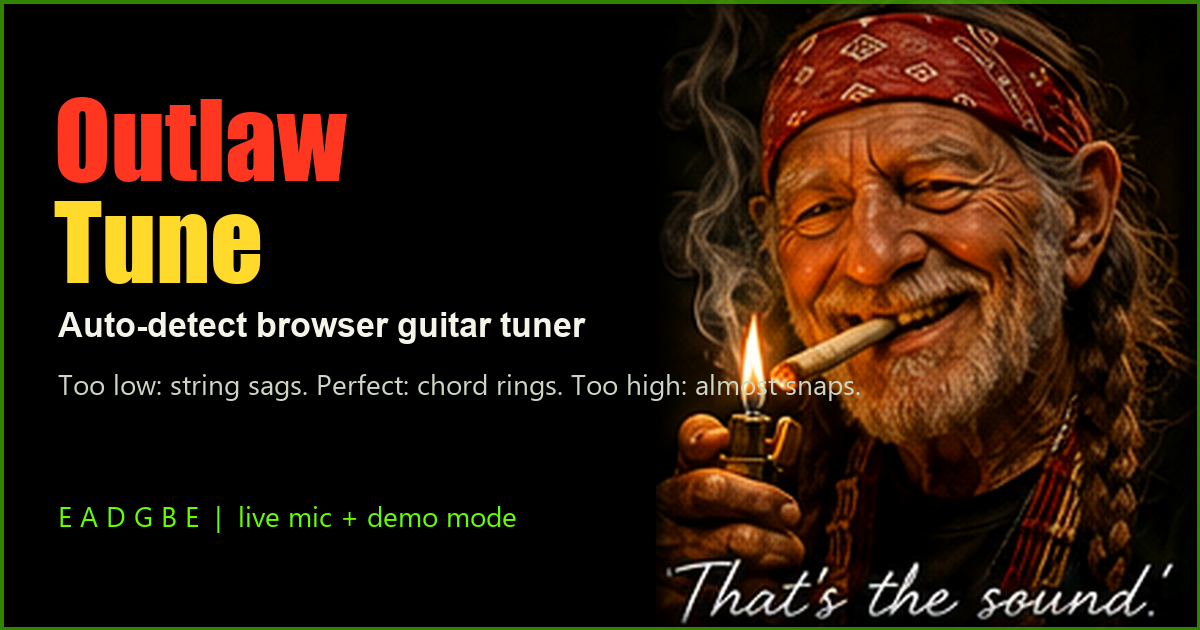
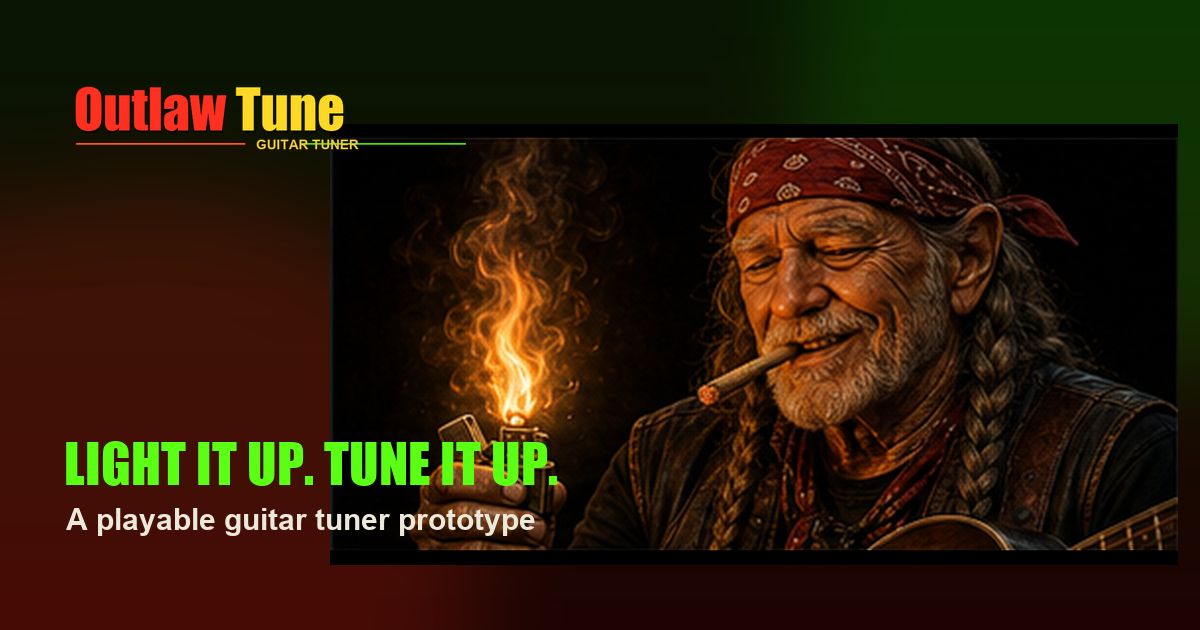
Add generated outlaw animation frames

diff --git a/script.js b/script.js
@@ -9,8 +9,30 @@ const guitarStrings = [
 
 const stringsByKey = Object.fromEntries(guitarStrings.map((string) => [string.key, string]));
 
-const canonicalCharacterFrame = "assets/outlaw-frame-08.png";
-const visualStageCount = 18;
+const generatedCharacterFrames = Array.from(
+  { length: 16 },
+  (_, index) => `assets/generated-outlaw-v2/outlaw-gen-v2-${String(index + 1).padStart(2, "0")}.png`,
+);
+const canonicalCharacterFrame = generatedCharacterFrames[7];
+const visualStageCount = generatedCharacterFrames.length;
+const generatedFrameStops = [
+  { cents: -50, frame: 0 },
+  { cents: -40, frame: 1 },
+  { cents: -30, frame: 2 },
+  { cents: -20, frame: 3 },
+  { cents: -10, frame: 4 },
+  { cents: -5, frame: 5 },
+  { cents: -2, frame: 6 },
+  { cents: 0, frame: 7 },
+  { cents: 2, frame: 8 },
+  { cents: 8, frame: 9 },
+  { cents: 15, frame: 10 },
+  { cents: 25, frame: 11 },
+  { cents: 35, frame: 12 },
+  { cents: 50, frame: 13 },
+  { cents: 65, frame: 14 },
+  { cents: 80, frame: 15 },
+];
 
 const stateCopy = {
   "way-low": { title: "Way Low", direction: "Tune Up" },
@@ -48,7 +70,8 @@ const stringButtons = [...document.querySelectorAll(".string-button")];
 const visual = {
   front: characterFrameA,
   back: characterFrameB,
-  currentFrame: canonicalCharacterFrame,
+  frontFrame: canonicalCharacterFrame,
+  backFrame: canonicalCharacterFrame,
   currentMood: "perfect",
   veilTimer: null,
 };
@@ -91,6 +114,10 @@ const attractKeyframes = [
 
 const canonicalPreload = new Image();
 canonicalPreload.src = canonicalCharacterFrame;
+generatedCharacterFrames.forEach((frame) => {
+  const image = new Image();
+  image.src = frame;
+});
 
 function installImageGuards() {
   document.querySelectorAll("img").forEach((img) => {
@@ -209,6 +236,32 @@ function visualStageForCents(cents) {
   return Math.round(visualPositionForCents(cents));
 }
 
+function generatedFrameMixForCents(cents) {
+  const first = generatedFrameStops[0];
+  const last = generatedFrameStops[generatedFrameStops.length - 1];
+
+  if (cents <= first.cents) {
+    return { from: first.frame, to: first.frame, blend: 0 };
+  }
+
+  if (cents >= last.cents) {
+    return { from: last.frame, to: last.frame, blend: 0 };
+  }
+
+  for (let index = 0; index < generatedFrameStops.length - 1; index += 1) {
+    const lower = generatedFrameStops[index];
+    const upper = generatedFrameStops[index + 1];
+
+    if (cents >= lower.cents && cents <= upper.cents) {
+      const span = upper.cents - lower.cents || 1;
+      const blend = easeInOut((cents - lower.cents) / span);
+      return { from: lower.frame, to: upper.frame, blend };
+    }
+  }
+
+  return { from: 7, to: 7, blend: 0 };
+}
+
 function spriteFrameForCents(cents) {
   if (cents < -42) return 0;
   if (cents < -30) return 1;
@@ -297,10 +350,18 @@ function applyVisual(cents) {
   const resonance = clamp(1 - Math.abs(cents) / 22, 0, 1);
   const virtualStage = visualStageForCents(cents);
   const spriteFrame = spriteFrameForCents(cents);
+  const frameMix = generatedFrameMixForCents(cents);
+  const frontFrame = generatedCharacterFrames[frameMix.from];
+  const backFrame = generatedCharacterFrames[frameMix.to];
 
-  if (visual.currentFrame !== canonicalCharacterFrame) {
-    visual.currentFrame = canonicalCharacterFrame;
-    visual.front.src = canonicalCharacterFrame;
+  if (visual.frontFrame !== frontFrame) {
+    visual.frontFrame = frontFrame;
+    visual.front.src = frontFrame;
+  }
+
+  if (visual.backFrame !== backFrame) {
+    visual.backFrame = backFrame;
+    visual.back.src = backFrame;
   }
 
   if (visual.currentMood !== mood) {
@@ -308,13 +369,14 @@ function applyVisual(cents) {
     triggerFrameVeil();
   }
 
-  visual.back.src = canonicalCharacterFrame;
-  visual.front.style.opacity = "1";
-  visual.back.style.opacity = "0";
+  visual.front.style.opacity = (1 - frameMix.blend).toFixed(3);
+  visual.back.style.opacity = frameMix.blend.toFixed(3);
 
   app.dataset.visualStage = String(virtualStage);
+  app.dataset.generatedFrame = `${frameMix.from + 1}-${frameMix.to + 1}`;
   app.dataset.visualMood = mood;
   app.style.setProperty("--frame-progress", (position / (visualStageCount - 1)).toFixed(3));
+  app.style.setProperty("--frame-blend", frameMix.blend.toFixed(3));
   app.style.setProperty("--spark-level", spark.toFixed(3));
   app.style.setProperty("--flame-level", flame.toFixed(3));
   app.style.setProperty("--flare-level", flare.toFixed(3));

diff --git a/index.html b/index.html
@@ -20,8 +20,8 @@
     <meta name="twitter:card" content="summary_large_image">
     <meta name="twitter:title" content="Outlaw Tune Guitar Tuner">
     <meta name="twitter:description" content="A playable mobile guitar tuner prototype with live mic detection, six strings, and outlaw-stage tuning feedback.">
-    <meta name="twitter:image" content="https://outlaw-tune-preview.netlify.app/assets/social-preview.png?v=outlaw-20260606">
-    <link rel="stylesheet" href="style.css?v=outlaw-stable-smooth-20260619b">
+    <meta name="twitter:image" content="https://outlaw-tune-preview.netlify.app/assets/social-preview.png?v=outlaw-generated-v2-20260619">
+    <link rel="stylesheet" href="style.css?v=outlaw-generated-v2-20260619">
   </head>
   <body>
     <main class="app-shell" data-state="perfect">
@@ -36,8 +36,8 @@
       <section class="hero-panel">
         <div class="character-stage" id="characterStage" role="img" aria-label="Fictional outlaw-country tuner character">
           <div class="character-rig" aria-hidden="true">
-            <img id="characterFrameA" class="character-frame frame-a is-visible" src="assets/outlaw-frame-08.png" alt="">
-            <img id="characterFrameB" class="character-frame frame-b" src="assets/outlaw-frame-08.png" alt="">
+            <img id="characterFrameA" class="character-frame frame-a is-visible" src="assets/generated-outlaw-v2/outlaw-gen-v2-08.png" alt="">
+            <img id="characterFrameB" class="character-frame frame-b" src="assets/generated-outlaw-v2/outlaw-gen-v2-08.png" alt="">
             <div class="flame-system">
               <span class="sprite-glow"></span>
               <span class="flame-sprite"></span>
@@ -164,6 +164,6 @@
       <p class="status-text" id="statusText">Requesting microphone access for live tuning.</p>
     </main>
 
-    <script src="script.js?v=outlaw-stable-smooth-20260619b"></script>
+    <script src="script.js?v=outlaw-generated-v2-20260619"></script>
   </body>
 </html>

diff --git a/style.css b/style.css
@@ -239,6 +239,10 @@ button {
   opacity: 0;
 }
 
+.flame-system {
+  display: none;
+}
+
 .app-shell[data-state="way-high"] .character-stage {
   animation: warningShake 520ms ease-in-out;
 }
@@ -261,7 +265,7 @@ button {
 
 .flame-system {
   position: absolute;
-  display: block;
+  display: none;
   left: 31.2%;
   bottom: 21.8%;
   z-index: 5;

diff --git a/README.md b/README.md
@@ -1,6 +1,6 @@
 # Outlaw Tune
 
-Outlaw Tune is a static, mobile-first guitar tuner prototype. It uses browser microphone input, Web Audio pitch detection, six-string auto-detection, and an outlaw-country character progression that reacts as the note moves from flat to perfect to sharp.
+Outlaw Tune is a static, mobile-first guitar tuner prototype. It uses browser microphone input, Web Audio pitch detection, six-string auto-detection, and a generated 16-frame outlaw-country character progression that reacts as the note moves from flat to perfect to sharp.
 
 ## Files
 